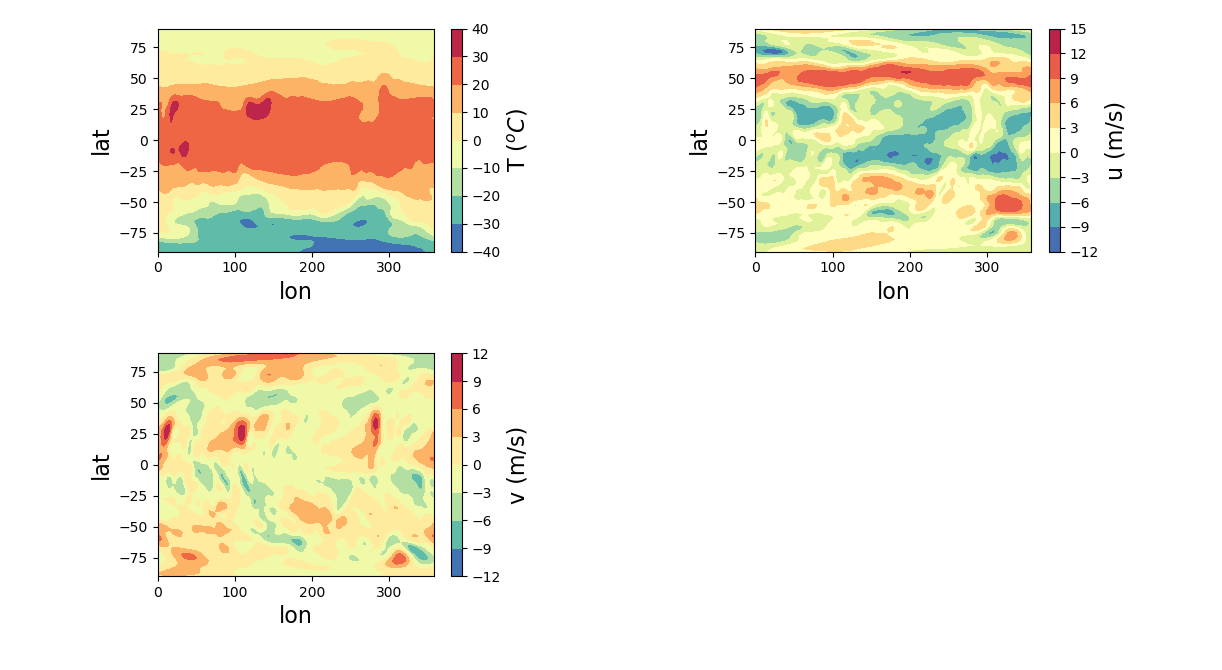
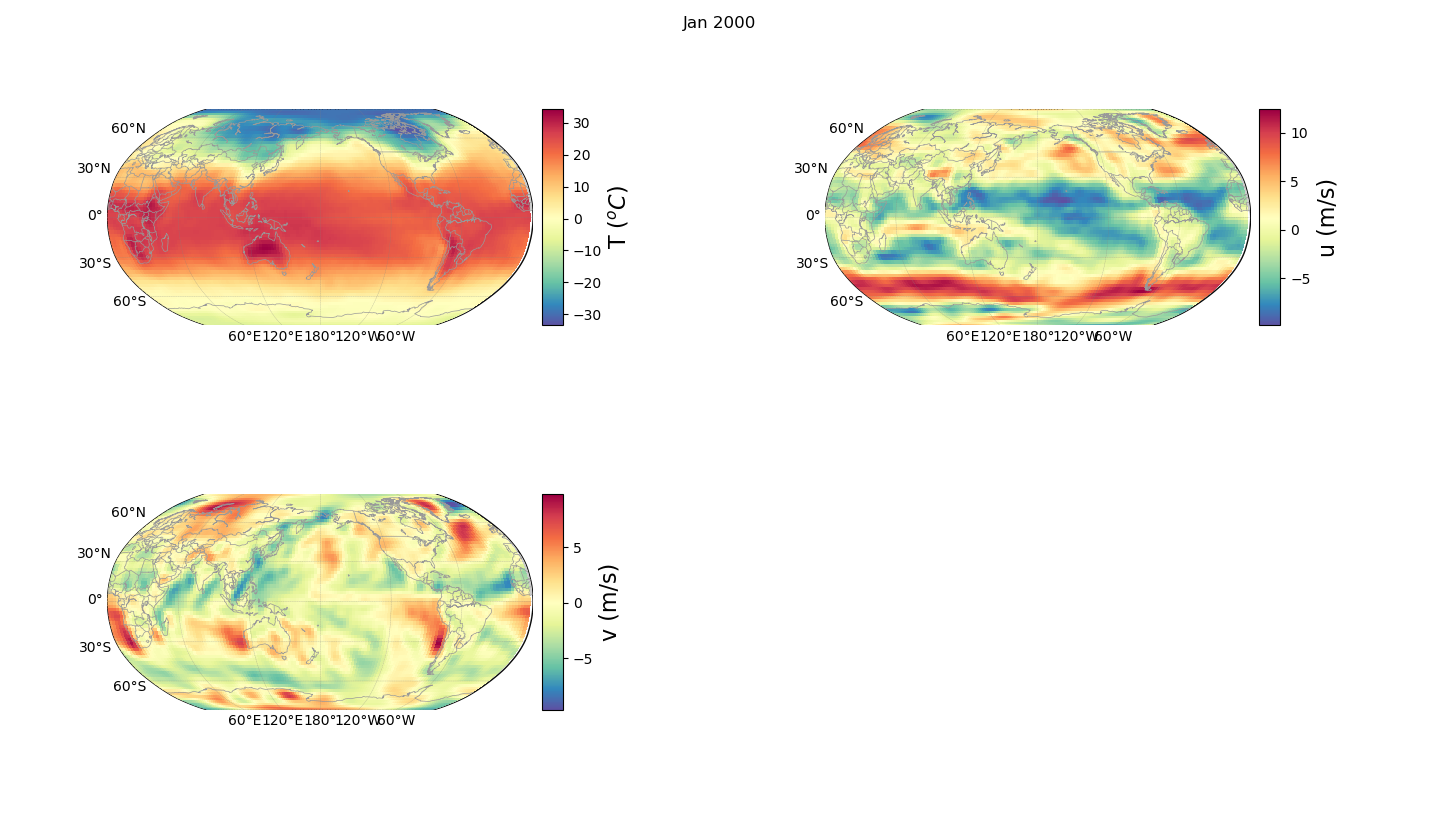
fix plots and us data selection

diff --git a/plot_data.py b/plot_data.py
@@ -1,0 +1,188 @@
+'''
+This script read the monthly mean temperature, u, and v data
+1. plot the x-y plane at the height of 1000 mbar (~100 m) on 
+1) the global scale
+2) and US only
+for the year of 2000
+
+2. Time series of all time available (01/1948 to ) using data
+   at 100 m and averaged in x and y (US only)
+'''
+
+import numpy as np
+from netCDF4 import Dataset
+import matplotlib.pyplot as plt
+from mpl_toolkits.basemap import Basemap
+
+def draw_map(lat1=-90, lat2=90, lon1=0, lon2=360, dlat=30., dlon=60., lon0=180):
+    m = Basemap(llcrnrlon = lon1, urcrnrlon=lon2, llcrnrlat=lat1,urcrnrlat = lat2, projection='robin',lon_0=lon0,resolution='c')
+      # resolution c, l, i, h, f in that order
+    
+    m.drawmapboundary(fill_color='white', zorder=-1)
+    m.fillcontinents(color='0.8', lake_color='white', zorder=0)
+    
+    m.drawcoastlines(color='0.6', linewidth=0.5)
+    m.drawcountries(color='0.6', linewidth=0.5)
+    
+    m.drawparallels(np.arange(lat1,lat2, dlat), labels=[1,0,0,1], dashes=[1,1], linewidth=0.25, color='0.5')
+    m.drawmeridians(np.arange(lon1, lon2, dlon), labels=[1,0,0,1], dashes=[1,1], linewidth=0.25, color='0.5')
+    return m
+
+def draw_map_merc(lat1=-90, lat2=90, lon1=0, lon2=360, dlat=30., dlon=60., lon0=180):
+    m = Basemap(llcrnrlon = lon1, urcrnrlon=lon2, llcrnrlat=lat1,urcrnrlat = lat2,projection='merc',lon_0=lon0,resolution='c')
+      # resolution c, l, i, h, f in that order
+    
+    m.drawmapboundary(fill_color='white', zorder=-1)
+    m.fillcontinents(color='0.8', lake_color='white', zorder=0)
+    
+    m.drawcoastlines(color='0.6', linewidth=0.5)
+    m.drawcountries(color='0.6', linewidth=0.5)
+    
+    m.drawparallels(np.arange(lat1,lat2, dlat), labels=[1,0,0,1], dashes=[1,1], linewidth=0.25, color='0.5')
+    m.drawmeridians(np.arange(lon1, lon2, dlon), labels=[1,0,0,1], dashes=[1,1], linewidth=0.25, color='0.5')
+    return m
+
+
+data = Dataset('./air.mon.mean.nc', 'r')
+T = data.variables['air'][:,0]
+t = data.variables['time'][:]
+lat = data.variables['lat'][:]
+lon = data.variables['lon'][:]
+LON, LAT = np.meshgrid(lon, lat)
+data.close()
+
+data = Dataset('./uwnd.mon.mean.nc', 'r')
+u = data.variables['uwnd'][:,0]
+data.close()
+
+data = Dataset('./vwnd.mon.mean.nc', 'r')
+v = data.variables['vwnd'][:,0]
+data.close()
+
+dt = t[1] - t[0]
+t_ind = int((2001-1948)*24*365/dt)  # the time index for 01/2000
+print('t=', t[t_ind]/24/365+1800)
+
+# extract data of the US
+lat_us = np.argwhere(np.logical_and(lat > 29.06, lat<48.97))[:,0]
+lon_us = np.argwhere(np.logical_and(lon > np.mod(-123.3,360),lon < np.mod(-81.2, 360)))[:,0]
+lon_ind, lat_ind = np.meshgrid(lon_us, lat_us)
+
+T_US = T[:, lat_ind, lon_ind]
+u_US = u[:, lat_ind, lon_ind]
+v_US = v[:, lat_ind, lon_ind]
+
+# extract coordinates of the US
+LON_US, LAT_US = np.meshgrid(lon[lon_us], lat[lat_us])
+
+# plot x-y plane in 01/2000
+plt.figure()
+plt.subplot(221)
+plt.contourf(LON_US,LAT_US, T_US[t_ind], cmap ='Spectral_r')
+plt.ylabel('lat', fontsize=16)
+plt.xlabel('lon', fontsize=16)
+cbar = plt.colorbar()
+cbar.set_label(r'T ($^oC$)', fontsize=16)
+plt.tight_layout()
+
+plt.subplot(222)
+plt.contourf(LON_US,LAT_US, u_US[t_ind], cmap ='Spectral_r')
+plt.ylabel('lat', fontsize=16)
+plt.xlabel('lon', fontsize=16)
+cbar = plt.colorbar()
+cbar.set_label(r'u (m/s)', fontsize=16)
+plt.tight_layout()
+
+plt.subplot(223)
+plt.contourf(LON_US,LAT_US, v_US[t_ind], cmap ='Spectral_r')
+plt.ylabel('lat', fontsize=16)
+plt.xlabel('lon', fontsize=16)
+cbar = plt.colorbar()
+cbar.set_label(r'v (m/s)', fontsize=16)
+plt.tight_layout()
+
+# plot time series 
+u_ts = np.mean(u_US, axis=(1,2))
+v_ts = np.mean(v_US, axis=(1,2))
+T_ts = np.mean(T_US, axis=(1,2))
+
+t_int = (t/365/24).astype(int) + 1800
+plt.figure()
+plt.subplot(311)
+plt.plot(t_int, u_ts)
+plt.legend()
+plt.xlabel('year', fontsize=16)
+plt.ylabel('u (m/s)', fontsize=16)
+
+plt.subplot(312)
+plt.plot(t_int, v_ts)
+plt.legend()
+plt.xlabel('year', fontsize=16)
+plt.ylabel('v (m/s)', fontsize=16)
+
+plt.subplot(313)
+plt.plot(t_int, T_ts)
+plt.xlabel('year', fontsize=16)
+plt.ylabel(r'T ($^oC$)', fontsize=16)
+
+# plot global data on a base map
+plt.figure()
+plt.subplot(221)
+m = draw_map()
+LON, LAT = m(LON, LAT)
+m.pcolormesh(LON, LAT, T[t_ind], cmap='Spectral_r', rasterized=False, edgecolor='0.6', linewidth=0)
+cbar = m.colorbar()
+cbar.set_label(r'T ($^oC$)', fontsize=16)
+cbar.solids.set_edgecolor("face")
+#cbar.set_ticks([0,100])
+
+plt.subplot(222)
+m = draw_map()
+m.pcolormesh(LON, LAT, u[t_ind], cmap='Spectral_r', rasterized=False, edgecolor='0.6', linewidth=0)
+cbar = m.colorbar()
+cbar.set_label('u (m/s)', fontsize=16)
+cbar.solids.set_edgecolor("face")
+
+plt.subplot(223)
+m = draw_map()
+m.pcolormesh(LON, LAT, v[t_ind], cmap='Spectral_r', rasterized=False, edgecolor='0.6', linewidth=0)
+cbar = m.colorbar()
+cbar.set_label('v (m/s)', fontsize=16)
+cbar.solids.set_edgecolor("face")
+plt.tight_layout()
+plt.suptitle("Jan 2000", fontsize=16)
+
+#plot US data on a map
+plt.figure()
+plt.subplot(221)
+m = draw_map_merc(29.06, 48.97, -123.3, -81.2,5,10, (-123.3-81.2)/2)
+LON, LAT = m(np.mod((LON_US+180),360)-180, LAT_US)
+print('LON', np.mod((LON_US+180),360)-180)
+m.pcolormesh(LON, LAT, T_US[t_ind], cmap='Spectral_r', rasterized=False, edgecolor='0.6', linewidth=0)
+cbar = m.colorbar()
+cbar.set_label(r'T ($^oC$)', fontsize=16)
+cbar.solids.set_edgecolor("face")
+#cbar.set_ticks([0,100])
+
+plt.subplot(222)
+m = draw_map_merc(29.06, 48.97, -123.3, -81.2, 5,10, (-123.3-81.2)/2)
+m.pcolormesh(LON, LAT, u_US[t_ind], cmap='Spectral_r', rasterized=False, edgecolor='0.6', linewidth=0)
+cbar = m.colorbar()
+cbar.set_label('u (m/s)', fontsize=16)
+cbar.solids.set_edgecolor("face")
+#cbar.set_ticks([0,100])
+
+plt.subplot(223)
+m = draw_map_merc(29.06, 48.97, -123.3, -81.2,5,10, (-123.3-81.2)/2)
+m.pcolormesh(LON, LAT, v_US[t_ind], cmap='Spectral_r', rasterized=False, edgecolor='0.6', linewidth=0)
+cbar = m.colorbar()
+cbar.set_label('v (m/s)', fontsize=16)
+cbar.solids.set_edgecolor("face")
+plt.tight_layout()
+plt.suptitle("Jan 2000", fontsize=16)
+
+
+
+plt.show()
+
+

diff --git a/plots/plot_data.py b/plots/plot_data.py
@@ -1,0 +1,188 @@
+'''
+This script read the monthly mean temperature, u, and v data
+1. plot the x-y plane at the height of 1000 mbar (~100 m) on 
+1) the global scale
+2) and US only
+for the year of 2000
+
+2. Time series of all time available (01/1948 to ) using data
+   at 100 m and averaged in x and y (US only)
+'''
+
+import numpy as np
+from netCDF4 import Dataset
+import matplotlib.pyplot as plt
+from mpl_toolkits.basemap import Basemap
+
+def draw_map(lat1=-90, lat2=90, lon1=0, lon2=360, dlat=30., dlon=60., lon0=180):
+    m = Basemap(llcrnrlon = lon1, urcrnrlon=lon2, llcrnrlat=lat1,urcrnrlat = lat2, projection='robin',lon_0=lon0,resolution='c')
+      # resolution c, l, i, h, f in that order
+    
+    m.drawmapboundary(fill_color='white', zorder=-1)
+    m.fillcontinents(color='0.8', lake_color='white', zorder=0)
+    
+    m.drawcoastlines(color='0.6', linewidth=0.5)
+    m.drawcountries(color='0.6', linewidth=0.5)
+    
+    m.drawparallels(np.arange(lat1,lat2, dlat), labels=[1,0,0,1], dashes=[1,1], linewidth=0.25, color='0.5')
+    m.drawmeridians(np.arange(lon1, lon2, dlon), labels=[1,0,0,1], dashes=[1,1], linewidth=0.25, color='0.5')
+    return m
+
+def draw_map_merc(lat1=-90, lat2=90, lon1=0, lon2=360, dlat=30., dlon=60., lon0=180):
+    m = Basemap(llcrnrlon = lon1, urcrnrlon=lon2, llcrnrlat=lat1,urcrnrlat = lat2,projection='merc',lon_0=lon0,resolution='c')
+      # resolution c, l, i, h, f in that order
+    
+    m.drawmapboundary(fill_color='white', zorder=-1)
+    m.fillcontinents(color='0.8', lake_color='white', zorder=0)
+    
+    m.drawcoastlines(color='0.6', linewidth=0.5)
+    m.drawcountries(color='0.6', linewidth=0.5)
+    
+    m.drawparallels(np.arange(lat1,lat2, dlat), labels=[1,0,0,1], dashes=[1,1], linewidth=0.25, color='0.5')
+    m.drawmeridians(np.arange(lon1, lon2, dlon), labels=[1,0,0,1], dashes=[1,1], linewidth=0.25, color='0.5')
+    return m
+
+
+data = Dataset('./air.mon.mean.nc', 'r')
+T = data.variables['air'][:,0]
+t = data.variables['time'][:]
+lat = data.variables['lat'][:]
+lon = data.variables['lon'][:]
+LON, LAT = np.meshgrid(lon, lat)
+data.close()
+
+data = Dataset('./uwnd.mon.mean.nc', 'r')
+u = data.variables['uwnd'][:,0]
+data.close()
+
+data = Dataset('./vwnd.mon.mean.nc', 'r')
+v = data.variables['vwnd'][:,0]
+data.close()
+
+dt = t[1] - t[0]
+t_ind = int((2001-1948)*24*365/dt)  # the time index for 01/2000
+print('t=', t[t_ind]/24/365+1800)
+
+# extract data of the US
+lat_us = np.argwhere(np.logical_and(lat > 29.06, lat<48.97))[:,0]
+lon_us = np.argwhere(np.logical_and(lon > np.mod(-123.3,360),lon < np.mod(-81.2, 360)))[:,0]
+lon_ind, lat_ind = np.meshgrid(lon_us, lat_us)
+
+T_US = T[:, lat_ind, lon_ind]
+u_US = u[:, lat_ind, lon_ind]
+v_US = v[:, lat_ind, lon_ind]
+
+# extract coordinates of the US
+LON_US, LAT_US = np.meshgrid(lon[lon_us], lat[lat_us])
+
+# plot x-y plane in 01/2000
+plt.figure()
+plt.subplot(221)
+plt.contourf(LON_US,LAT_US, T_US[t_ind], cmap ='Spectral_r')
+plt.ylabel('lat', fontsize=16)
+plt.xlabel('lon', fontsize=16)
+cbar = plt.colorbar()
+cbar.set_label(r'T ($^oC$)', fontsize=16)
+plt.tight_layout()
+
+plt.subplot(222)
+plt.contourf(LON_US,LAT_US, u_US[t_ind], cmap ='Spectral_r')
+plt.ylabel('lat', fontsize=16)
+plt.xlabel('lon', fontsize=16)
+cbar = plt.colorbar()
+cbar.set_label(r'u (m/s)', fontsize=16)
+plt.tight_layout()
+
+plt.subplot(223)
+plt.contourf(LON_US,LAT_US, v_US[t_ind], cmap ='Spectral_r')
+plt.ylabel('lat', fontsize=16)
+plt.xlabel('lon', fontsize=16)
+cbar = plt.colorbar()
+cbar.set_label(r'v (m/s)', fontsize=16)
+plt.tight_layout()
+
+# plot time series 
+u_ts = np.mean(u_US, axis=(1,2))
+v_ts = np.mean(v_US, axis=(1,2))
+T_ts = np.mean(T_US, axis=(1,2))
+
+t_int = (t/365/24).astype(int) + 1800
+plt.figure()
+plt.subplot(311)
+plt.plot(t_int, u_ts)
+plt.legend()
+plt.xlabel('year', fontsize=16)
+plt.ylabel('u (m/s)', fontsize=16)
+
+plt.subplot(312)
+plt.plot(t_int, v_ts)
+plt.legend()
+plt.xlabel('year', fontsize=16)
+plt.ylabel('v (m/s)', fontsize=16)
+
+plt.subplot(313)
+plt.plot(t_int, T_ts)
+plt.xlabel('year', fontsize=16)
+plt.ylabel(r'T ($^oC$)', fontsize=16)
+
+# plot global data on a base map
+plt.figure()
+plt.subplot(221)
+m = draw_map()
+LON, LAT = m(LON, LAT)
+m.pcolormesh(LON, LAT, T[t_ind], cmap='Spectral_r', rasterized=False, edgecolor='0.6', linewidth=0)
+cbar = m.colorbar()
+cbar.set_label(r'T ($^oC$)', fontsize=16)
+cbar.solids.set_edgecolor("face")
+#cbar.set_ticks([0,100])
+
+plt.subplot(222)
+m = draw_map()
+m.pcolormesh(LON, LAT, u[t_ind], cmap='Spectral_r', rasterized=False, edgecolor='0.6', linewidth=0)
+cbar = m.colorbar()
+cbar.set_label('u (m/s)', fontsize=16)
+cbar.solids.set_edgecolor("face")
+
+plt.subplot(223)
+m = draw_map()
+m.pcolormesh(LON, LAT, v[t_ind], cmap='Spectral_r', rasterized=False, edgecolor='0.6', linewidth=0)
+cbar = m.colorbar()
+cbar.set_label('v (m/s)', fontsize=16)
+cbar.solids.set_edgecolor("face")
+plt.tight_layout()
+plt.suptitle("Jan 2000", fontsize=16)
+
+#plot US data on a map
+plt.figure()
+plt.subplot(221)
+m = draw_map_merc(29.06, 48.97, -123.3, -81.2,5,10, (-123.3-81.2)/2)
+LON, LAT = m(np.mod((LON_US+180),360)-180, LAT_US)
+print('LON', np.mod((LON_US+180),360)-180)
+m.pcolormesh(LON, LAT, T_US[t_ind], cmap='Spectral_r', rasterized=False, edgecolor='0.6', linewidth=0)
+cbar = m.colorbar()
+cbar.set_label(r'T ($^oC$)', fontsize=16)
+cbar.solids.set_edgecolor("face")
+#cbar.set_ticks([0,100])
+
+plt.subplot(222)
+m = draw_map_merc(29.06, 48.97, -123.3, -81.2, 5,10, (-123.3-81.2)/2)
+m.pcolormesh(LON, LAT, u_US[t_ind], cmap='Spectral_r', rasterized=False, edgecolor='0.6', linewidth=0)
+cbar = m.colorbar()
+cbar.set_label('u (m/s)', fontsize=16)
+cbar.solids.set_edgecolor("face")
+#cbar.set_ticks([0,100])
+
+plt.subplot(223)
+m = draw_map_merc(29.06, 48.97, -123.3, -81.2,5,10, (-123.3-81.2)/2)
+m.pcolormesh(LON, LAT, v_US[t_ind], cmap='Spectral_r', rasterized=False, edgecolor='0.6', linewidth=0)
+cbar = m.colorbar()
+cbar.set_label('v (m/s)', fontsize=16)
+cbar.solids.set_edgecolor("face")
+plt.tight_layout()
+plt.suptitle("Jan 2000", fontsize=16)
+
+
+
+plt.show()
+
+
